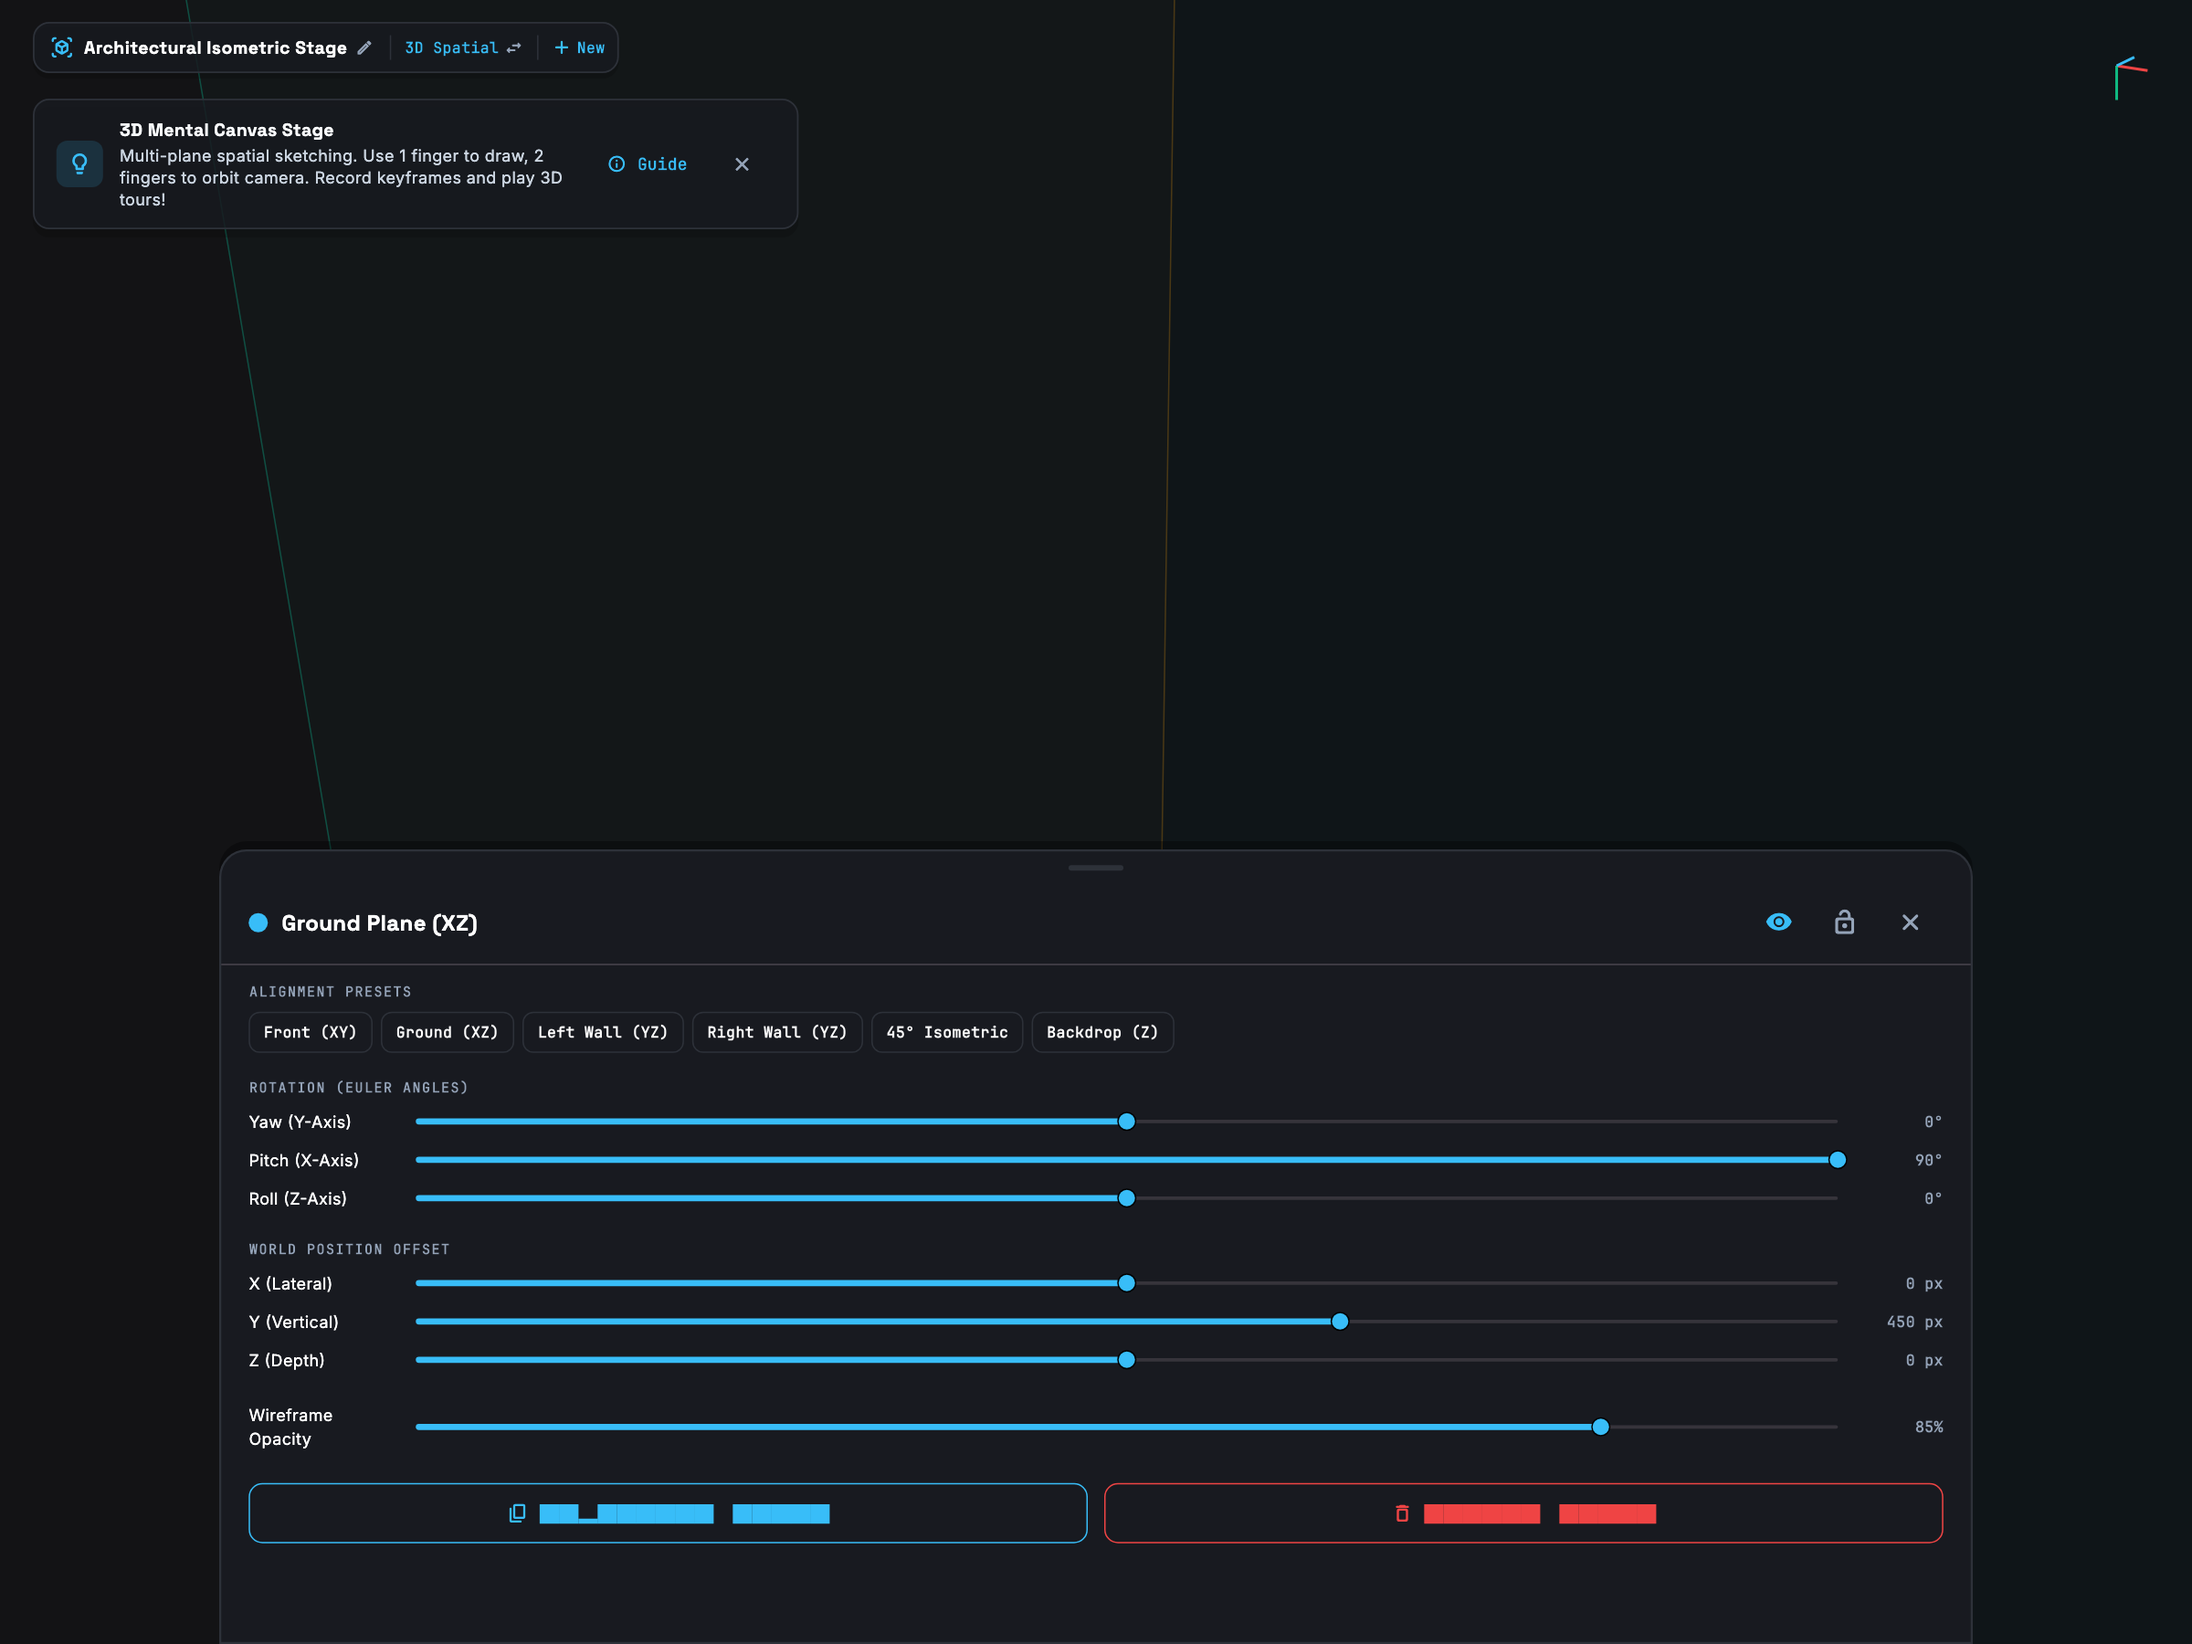
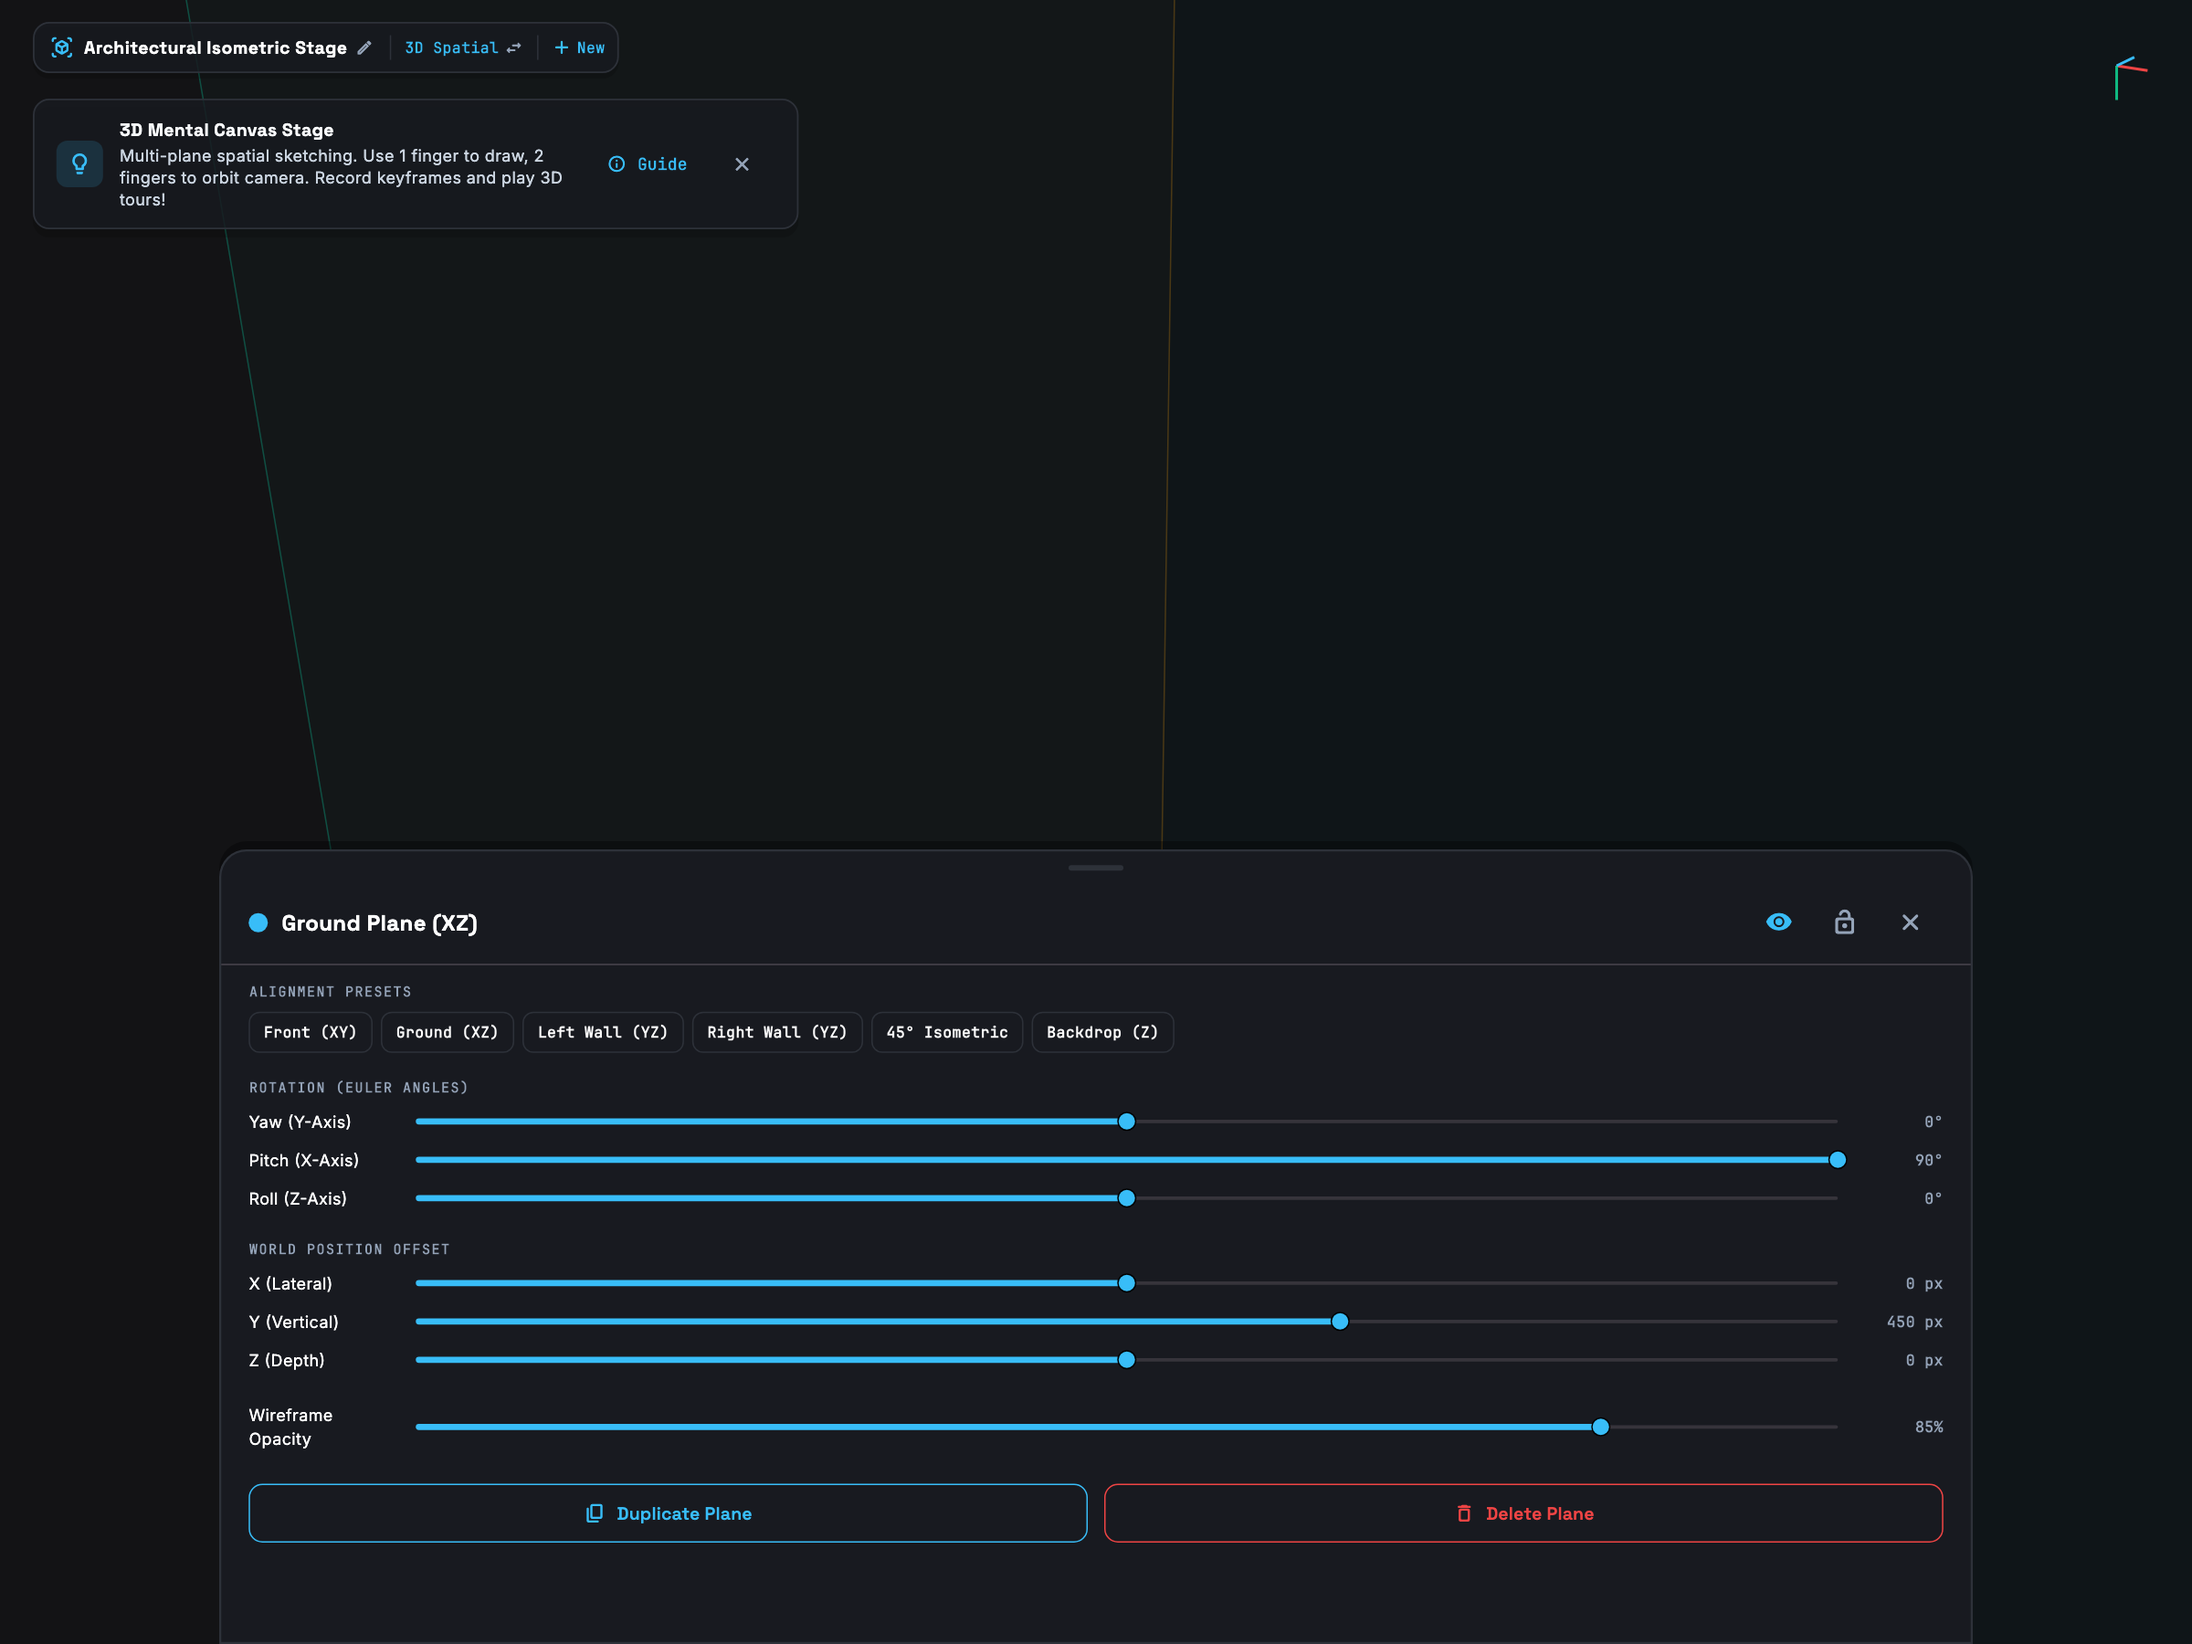
fix(ui): resolve text rendering in screenshots by loading font fallbacks and applying explicit styles

Changed region(s): [[0.625, 0.9022, 0.7812, 0.9333], [0.2188, 0.9022, 0.375, 0.9333]]

diff --git a/lib/views/gallery/gallery_screen.dart b/lib/views/gallery/gallery_screen.dart
@@ -205,7 +205,14 @@ class _GalleryScreenState extends State<GalleryScreen>
               foregroundColor: Colors.white,
             ),
             onPressed: () => Navigator.of(ctx).pop(true),
-            child: const Text('Delete'),
+            child: Text(
+              'Delete',
+              style: theme.headingStyle.copyWith(
+                fontSize: 13,
+                fontWeight: FontWeight.w600,
+                color: Colors.white,
+              ),
+            ),
           ),
         ],
       ),
@@ -285,7 +292,14 @@ class _GalleryScreenState extends State<GalleryScreen>
               foregroundColor: Colors.white,
             ),
             onPressed: () => Navigator.of(ctx).pop(true),
-            child: const Text('Delete All'),
+            child: Text(
+              'Delete All',
+              style: theme.headingStyle.copyWith(
+                fontSize: 13,
+                fontWeight: FontWeight.w600,
+                color: Colors.white,
+              ),
+            ),
           ),
         ],
       ),
@@ -382,7 +396,14 @@ class _GalleryScreenState extends State<GalleryScreen>
                 ),
               ),
               icon: const Icon(Icons.add_rounded, size: 18),
-              label: const Text('New Draft'),
+              label: Text(
+                'New Draft',
+                style: theme.headingStyle.copyWith(
+                  fontSize: 13,
+                  fontWeight: FontWeight.w600,
+                  color: Colors.white,
+                ),
+              ),
               onPressed: _createNewProject,
             ),
             const SizedBox(width: 12),
@@ -675,7 +696,14 @@ class _GalleryScreenState extends State<GalleryScreen>
                 ),
               ),
               icon: const Icon(Icons.add_rounded),
-              label: const Text('Create New Project'),
+              label: Text(
+                'Create New Project',
+                style: theme.headingStyle.copyWith(
+                  fontSize: 13,
+                  fontWeight: FontWeight.w600,
+                  color: Colors.white,
+                ),
+              ),
               onPressed: _createNewProject,
             ),
           ],
@@ -1049,7 +1077,14 @@ class _ProjectCard extends StatelessWidget {
                           ),
                         ),
                         icon: const Icon(Icons.draw_rounded, size: 14),
-                        label: const Text('Open'),
+                        label: Text(
+                          'Open',
+                          style: theme.monoStyle.copyWith(
+                            fontSize: 12,
+                            fontWeight: FontWeight.w700,
+                            color: theme.borderHighlight,
+                          ),
+                        ),
                         onPressed: onOpen,
                       ),
                     ),

diff --git a/lib/canvas/mental_canvas/plane_transform_sheet.dart b/lib/canvas/mental_canvas/plane_transform_sheet.dart
@@ -339,7 +339,14 @@ class _PlaneTransformSheetState extends State<PlaneTransformSheet> {
                     Expanded(
                       child: OutlinedButton.icon(
                         icon: const Icon(Icons.copy_rounded, size: 16),
-                        label: const Text('Duplicate Plane'),
+                        label: Text(
+                          'Duplicate Plane',
+                          style: theme.headingStyle.copyWith(
+                            fontSize: 13,
+                            fontWeight: FontWeight.w600,
+                            color: theme.borderHighlight,
+                          ),
+                        ),
                         style: OutlinedButton.styleFrom(
                           foregroundColor: theme.borderHighlight,
                           side: BorderSide(color: theme.borderHighlight),
@@ -361,7 +368,14 @@ class _PlaneTransformSheetState extends State<PlaneTransformSheet> {
                           Icons.delete_outline_rounded,
                           size: 16,
                         ),
-                        label: const Text('Delete Plane'),
+                        label: Text(
+                          'Delete Plane',
+                          style: theme.headingStyle.copyWith(
+                            fontSize: 13,
+                            fontWeight: FontWeight.w600,
+                            color: theme.danger,
+                          ),
+                        ),
                         style: OutlinedButton.styleFrom(
                           foregroundColor: theme.danger,
                           side: BorderSide(color: theme.danger),

diff --git a/lib/onboarding/onboarding_modal.dart b/lib/onboarding/onboarding_modal.dart
@@ -319,13 +319,26 @@ class _OnboardingModalState extends State<OnboardingModal> {
                             widget.onComplete();
                           }
                         },
-                        child: Text(
-                          _currentIndex == _slides.length - 1 ? 'Start Training ➔' : 'Next ➔',
-                          style: theme.headingStyle.copyWith(
-                            color: Colors.white,
-                            fontSize: 13,
-                            fontWeight: FontWeight.w600,
-                          ),
+                        child: Row(
+                          mainAxisSize: MainAxisSize.min,
+                          children: [
+                            Text(
+                              _currentIndex == _slides.length - 1
+                                  ? 'Start Training'
+                                  : 'Next',
+                              style: theme.headingStyle.copyWith(
+                                color: Colors.white,
+                                fontSize: 13,
+                                fontWeight: FontWeight.w600,
+                              ),
+                            ),
+                            const SizedBox(width: 6),
+                            const Icon(
+                              Icons.arrow_forward_rounded,
+                              size: 14,
+                              color: Colors.white,
+                            ),
+                          ],
                         ),
                       ),
                     ],

diff --git a/test/screenshot_capture_test.dart b/test/screenshot_capture_test.dart
@@ -64,6 +64,12 @@ Future<void> _loadAllFontVariants() async {
     'MaterialIcons': 'assets/fonts/MaterialIcons-Regular.otf',
     'MaterialIcons-Regular': 'assets/fonts/MaterialIcons-Regular.otf',
     'packages/flutter_test/MaterialIcons': 'assets/fonts/MaterialIcons-Regular.otf',
+    'Roboto': 'assets/fonts/Inter-Regular.ttf',
+    'Roboto-Bold': 'assets/fonts/Inter-Bold.ttf',
+    'Roboto-Medium': 'assets/fonts/Inter-Medium.ttf',
+    'Roboto-SemiBold': 'assets/fonts/Inter-SemiBold.ttf',
+    'sans-serif': 'assets/fonts/Inter-Regular.ttf',
+    '.AppleSystemUIFont': 'assets/fonts/Inter-Regular.ttf',
   };
 
   for (final MapEntry<String, String> entry in fonts.entries) {
@@ -102,9 +108,14 @@ void main() {
 
   Widget buildTestScreen(Widget child, {ThemeData? theme}) {
     boundaryKey = GlobalKey();
+    final baseTheme = theme ?? ThemeData.dark();
     return MaterialApp(
       debugShowCheckedModeBanner: false,
-      theme: theme ?? ThemeData.dark(),
+      theme: baseTheme.copyWith(
+        textTheme: baseTheme.textTheme.apply(
+          fontFamily: 'Inter',
+        ),
+      ),
       home: Scaffold(
         backgroundColor: const Color(0xFF0F1115),
         body: RepaintBoundary(key: boundaryKey, child: child),

diff --git a/lib/onboarding/splash_screen.dart b/lib/onboarding/splash_screen.dart
@@ -193,10 +193,15 @@ class _SplashScreenState extends State<SplashScreen> with SingleTickerProviderSt
               top: 24,
               right: 24,
               child: SafeArea(
-                child: TextButton(
+                child: TextButton.icon(
                   onPressed: widget.onFinish,
-                  child: Text(
-                    'Skip ➔',
+                  icon: const Icon(
+                    Icons.arrow_forward_rounded,
+                    size: 13,
+                    color: Color(0xFF64748B),
+                  ),
+                  label: Text(
+                    'Skip',
                     style: AppThemeTokens.createMonoStyle(
                       color: const Color(0xFF64748B),
                       fontSize: 12,

diff --git a/test/canvas_and_drills_test.dart b/test/canvas_and_drills_test.dart
@@ -568,7 +568,7 @@ void main() {
       expect(find.text('Shoulder Over Wrist'), findsOneWidget);
 
       // Tap Next Slide
-      await tester.tap(find.text('Next ➔'));
+      await tester.tap(find.text('Next'));
       await tester.pumpAndSettle();
 
       expect(find.text('Practice Before Contact'), findsOneWidget);
@@ -640,9 +640,9 @@ void main() {
       await tester.pump(const Duration(milliseconds: 100));
 
       expect(find.text('SPATIAL DRAFT'), findsOneWidget);
-      expect(find.text('Skip ➔'), findsOneWidget);
+      expect(find.text('Skip'), findsOneWidget);
 
-      await tester.tap(find.text('Skip ➔'));
+      await tester.tap(find.text('Skip'));
       await tester.pump(const Duration(seconds: 1));
 
       expect(finished, isTrue);

diff --git a/lib/views/diagnostics/crash_report_screen.dart b/lib/views/diagnostics/crash_report_screen.dart
@@ -103,7 +103,14 @@ class _CrashReportScreenState extends State<CrashReportScreen> {
               backgroundColor: const Color(0xFFEF4444),
               foregroundColor: Colors.white,
             ),
-            child: const Text('Clear All'),
+            child: Text(
+              'Clear All',
+              style: theme.headingStyle.copyWith(
+                fontSize: 13,
+                fontWeight: FontWeight.w600,
+                color: Colors.white,
+              ),
+            ),
           ),
         ],
       ),

diff --git a/lib/core/widgets/rename_project_dialog.dart b/lib/core/widgets/rename_project_dialog.dart
@@ -251,7 +251,14 @@ class _RenameProjectDialogState extends State<RenameProjectDialog> {
                 ),
               ),
               onPressed: isValid ? _submit : null,
-              child: const Text('Save Name'),
+              child: Text(
+                'Save Name',
+                style: theme.headingStyle.copyWith(
+                  fontSize: 13,
+                  fontWeight: FontWeight.w600,
+                  color: Colors.white,
+                ),
+              ),
             );
           },
         ),

diff --git a/lib/views/gallery/project_export_dialog.dart b/lib/views/gallery/project_export_dialog.dart
@@ -357,7 +357,14 @@ class _ProjectExportDialogState extends State<ProjectExportDialog> {
             ),
           ),
           icon: const Icon(Icons.copy_rounded, size: 18),
-          label: const Text('Copy File Code'),
+          label: Text(
+            'Copy File Code',
+            style: theme.headingStyle.copyWith(
+              fontSize: 13,
+              fontWeight: FontWeight.w600,
+              color: Colors.white,
+            ),
+          ),
           onPressed: _handleExport,
         ),
       ],
